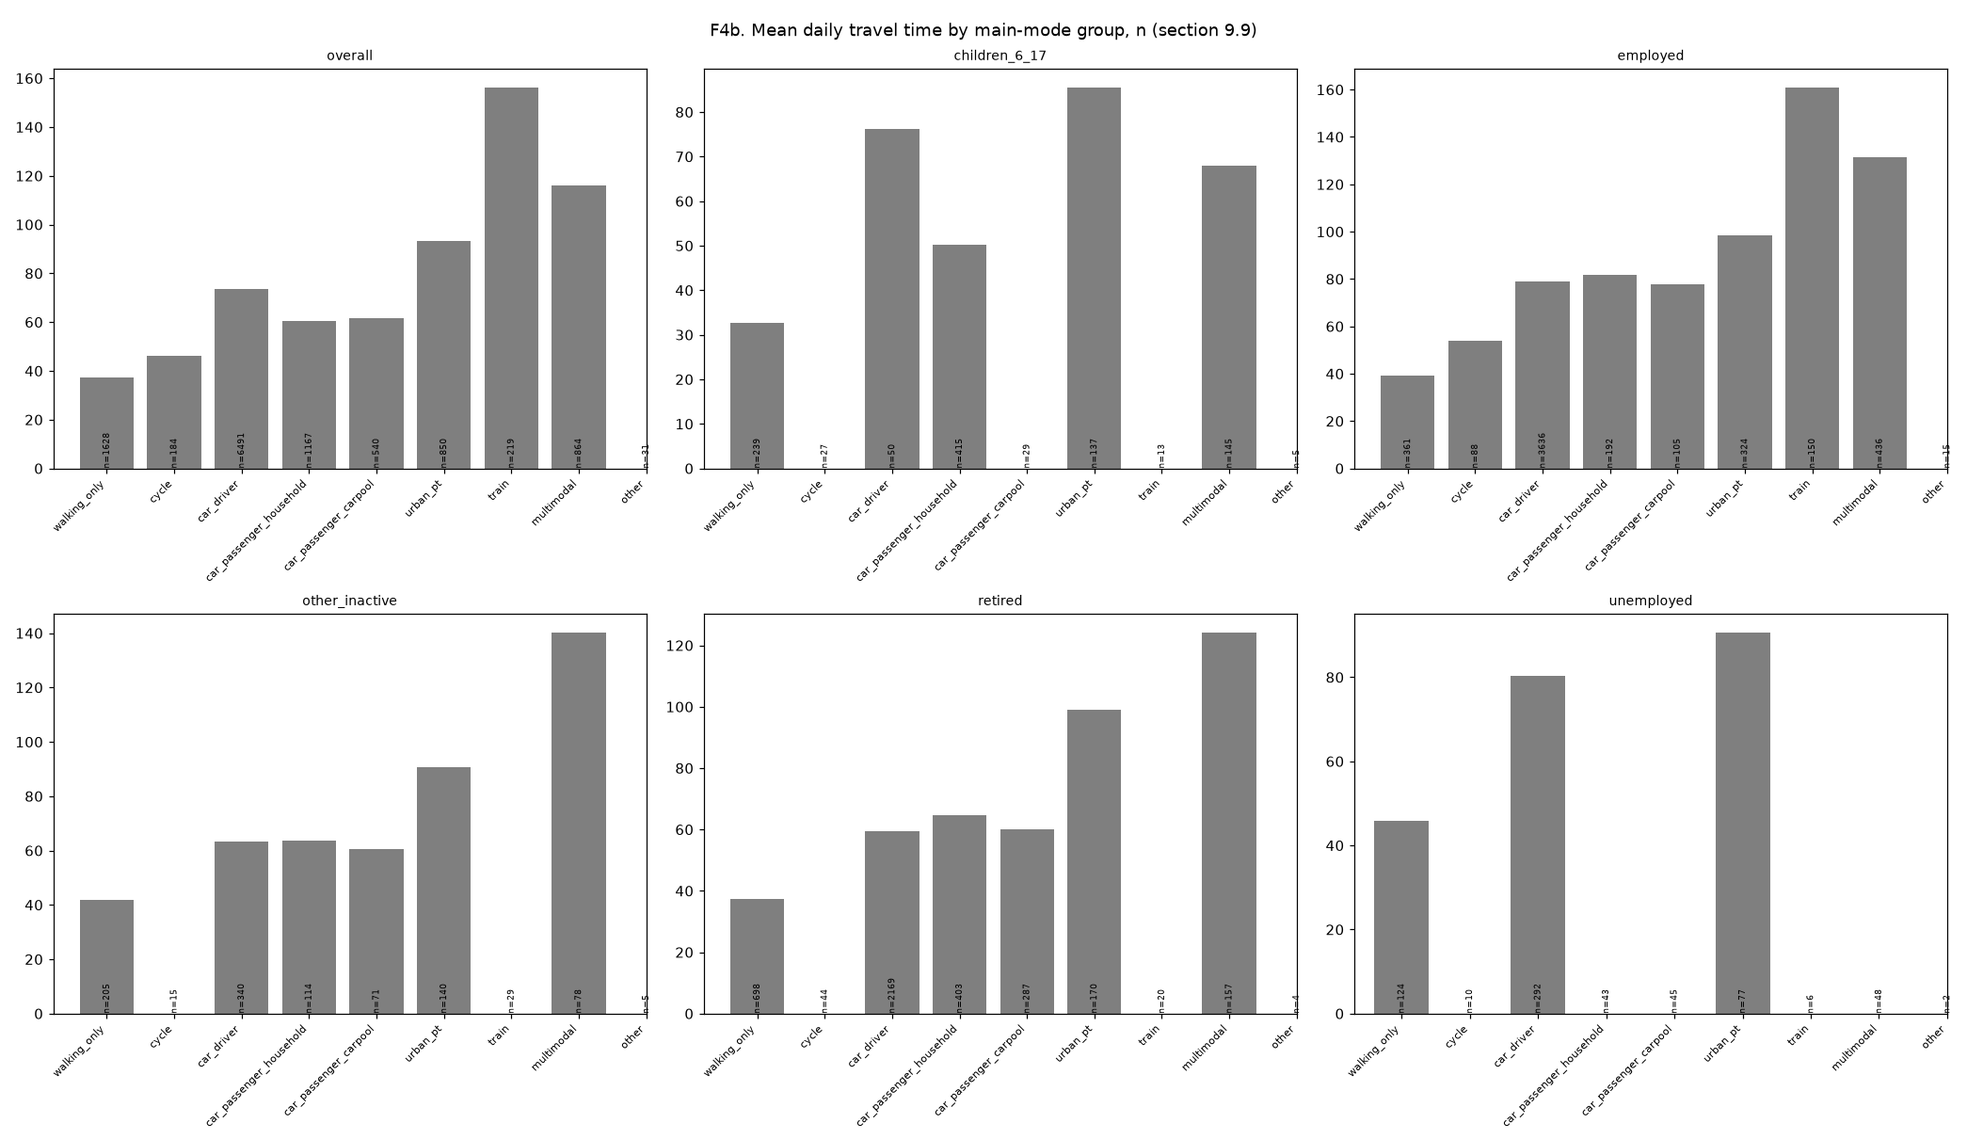
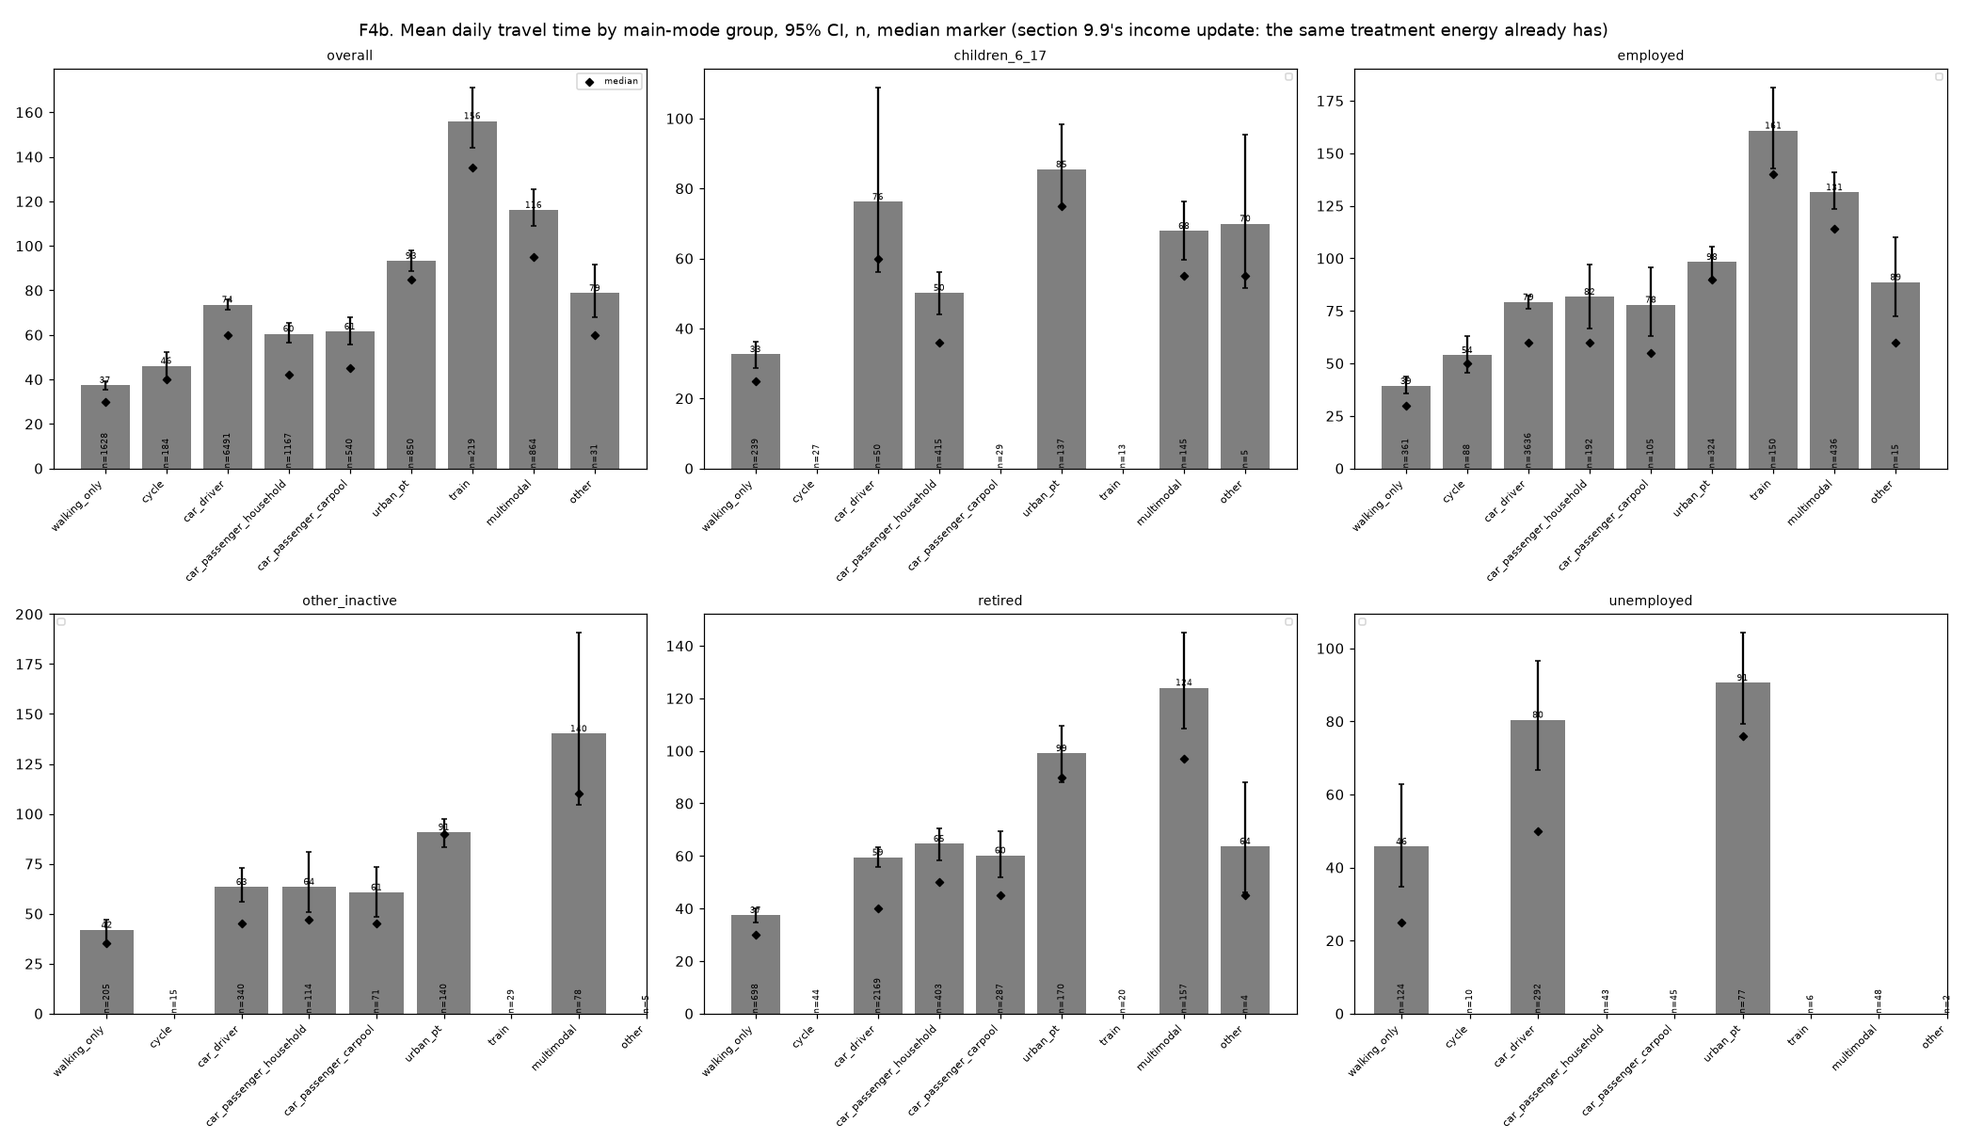
Part B: regenerate the EMP 2019 real-data report (income update)
Re-run docs/data/step11_budget.md and its figures with the section
9.9 income/time-parity code (income quintiles, per-person budget,
trips/day and minutes/trip tables, F01b/F01c/F02a/F02b/F05b/F10).

diff --git a/docs/data/step11_budget.md b/docs/data/step11_budget.md
@@ -28,30 +28,30 @@ INSEE's own 4-level grid names and order: dense (1, densely populated communes),
 
 ## Time budget: constancy across density classes (point 3)
 
-The reference constant (section 9.9, 27 October 2026 decision): is mean daily travel time the same across density classes of residence, within each population category? Day with trips, needs scope. Cells of fewer than 50 persons blank.
+The reference constant (section 9.9, 27 October 2026 decision): is mean daily travel time the same across density classes of residence, within each population category? Day with trips, needs scope. Cells of fewer than 50 persons blank. The 95% CI column (bootstrap over households) gives time the same treatment energy already has (section 9.9's income update).
 
-| Category | Density | n | mean time (min) | median time (min) |
-|---|---|---|---|---|
-| children_6_17 | dense | 405 | 57.7 | 41.0 |
-| children_6_17 | intermediate | 304 | 48.2 | 35.0 |
-| children_6_17 | sparse | 319 | 53.6 | 35.0 |
-| children_6_17 | very_sparse | 32 | - | - |
-| employed | dense | 2008 | 88.6 | 70.0 |
-| employed | intermediate | 1400 | 77.6 | 60.0 |
-| employed | sparse | 1694 | 83.5 | 65.0 |
-| employed | very_sparse | 205 | 89.1 | 70.0 |
-| unemployed | dense | 292 | 91.5 | 70.0 |
-| unemployed | intermediate | 184 | 72.4 | 46.0 |
-| unemployed | sparse | 152 | 73.4 | 40.0 |
-| unemployed | very_sparse | 19 | - | - |
-| retired | dense | 1242 | 67.7 | 50.0 |
-| retired | intermediate | 1202 | 55.7 | 40.0 |
-| retired | sparse | 1342 | 57.4 | 40.0 |
-| retired | very_sparse | 166 | 59.7 | 40.0 |
-| other_inactive | dense | 503 | 81.0 | 66.0 |
-| other_inactive | intermediate | 269 | 75.5 | 55.0 |
-| other_inactive | sparse | 203 | 69.2 | 55.0 |
-| other_inactive | very_sparse | 22 | - | - |
+| Category | Density | n | mean time (min) | 95% CI | median time (min) |
+|---|---|---|---|---|---|
+| children_6_17 | dense | 405 | 57.7 | [53.0, 63.5] | 41.0 |
+| children_6_17 | intermediate | 304 | 48.2 | [42.9, 56.9] | 35.0 |
+| children_6_17 | sparse | 319 | 53.6 | [47.6, 60.6] | 35.0 |
+| children_6_17 | very_sparse | 32 | - | - | - |
+| employed | dense | 2008 | 88.6 | [84.6, 94.1] | 70.0 |
+| employed | intermediate | 1400 | 77.6 | [73.4, 82.5] | 60.0 |
+| employed | sparse | 1694 | 83.5 | [78.7, 88.0] | 65.0 |
+| employed | very_sparse | 205 | 89.1 | [77.6, 100.5] | 70.0 |
+| unemployed | dense | 292 | 91.5 | [78.9, 106.4] | 70.0 |
+| unemployed | intermediate | 184 | 72.4 | [59.5, 89.0] | 46.0 |
+| unemployed | sparse | 152 | 73.4 | [53.9, 106.7] | 40.0 |
+| unemployed | very_sparse | 19 | - | - | - |
+| retired | dense | 1242 | 67.7 | [63.7, 71.8] | 50.0 |
+| retired | intermediate | 1202 | 55.7 | [51.9, 59.8] | 40.0 |
+| retired | sparse | 1342 | 57.4 | [52.9, 63.6] | 40.0 |
+| retired | very_sparse | 166 | 59.7 | [51.2, 68.3] | 40.0 |
+| other_inactive | dense | 503 | 81.0 | [74.1, 89.1] | 66.0 |
+| other_inactive | intermediate | 269 | 75.5 | [57.5, 101.5] | 55.0 |
+| other_inactive | sparse | 203 | 69.2 | [56.0, 83.7] | 55.0 |
+| other_inactive | very_sparse | 22 | - | - | - |
 
 ### Constancy summary
 
@@ -62,6 +62,302 @@ The reference constant (section 9.9, 27 October 2026 decision): is mean daily tr
 | unemployed | - | 1.26 | 0.11 |
 | retired | 1.13 | 1.22 | 0.08 |
 | other_inactive | - | 1.17 | 0.06 |
+
+## Time budget: constancy across income quintiles (section 9.9's income update)
+
+Household income per consumption unit (modified OECD scale), in quintiles computed within this survey with individual weights (`docs/data/entd2008.md`'s "Income variables"): is mean daily travel time the same across income quintiles, within each population category, as income is treated as density is? Day with trips, needs scope. `'unknown'` (missing/refused income) is its own class, excluded from the constancy summary (not an ordered quantile).
+
+| Category | Income quintile | n | mean time (min) | 95% CI | median time (min) |
+|---|---|---|---|---|---|
+| children_6_17 | q1 | 180 | 50.1 | [43.2, 57.8] | 40.0 |
+| children_6_17 | q2 | 259 | 58.0 | [50.2, 68.7] | 40.0 |
+| children_6_17 | q3 | 204 | 49.7 | [45.3, 56.3] | 40.0 |
+| children_6_17 | q4 | 219 | 56.2 | [47.2, 68.4] | 37.0 |
+| children_6_17 | q5 | 198 | 52.1 | [46.0, 60.0] | 40.0 |
+| children_6_17 | unknown | 0 | - | - | - |
+| employed | q1 | 211 | 77.3 | [66.3, 92.7] | 50.0 |
+| employed | q2 | 683 | 74.5 | [67.8, 79.5] | 60.0 |
+| employed | q3 | 1008 | 87.3 | [79.8, 96.4] | 65.0 |
+| employed | q4 | 1488 | 82.2 | [78.2, 86.2] | 65.0 |
+| employed | q5 | 1917 | 89.1 | [85.3, 93.0] | 70.0 |
+| employed | unknown | 0 | - | - | - |
+| unemployed | q1 | 259 | 67.9 | [58.7, 78.1] | 50.0 |
+| unemployed | q2 | 177 | 79.5 | [66.3, 95.4] | 65.0 |
+| unemployed | q3 | 88 | 110.4 | [70.9, 163.9] | 60.0 |
+| unemployed | q4 | 72 | 81.4 | [64.8, 101.2] | 75.0 |
+| unemployed | q5 | 51 | 84.0 | [54.7, 108.5] | 60.0 |
+| unemployed | unknown | 0 | - | - | - |
+| retired | q1 | 183 | 50.2 | [43.8, 58.1] | 35.0 |
+| retired | q2 | 705 | 54.7 | [49.9, 60.8] | 40.0 |
+| retired | q3 | 802 | 58.1 | [53.4, 63.6] | 40.0 |
+| retired | q4 | 1080 | 59.0 | [53.9, 66.5] | 40.0 |
+| retired | q5 | 1182 | 67.7 | [62.8, 72.2] | 45.0 |
+| retired | unknown | 0 | - | - | - |
+| other_inactive | q1 | 295 | 70.3 | [62.0, 79.6] | 60.0 |
+| other_inactive | q2 | 313 | 81.9 | [65.3, 109.8] | 60.0 |
+| other_inactive | q3 | 157 | 70.6 | [58.1, 83.2] | 60.0 |
+| other_inactive | q4 | 127 | 87.5 | [72.1, 104.1] | 62.0 |
+| other_inactive | q5 | 105 | 73.6 | [60.1, 88.5] | 65.0 |
+| other_inactive | unknown | 0 | - | - | - |
+
+### Constancy summary
+
+| Category | q5/q1 | max/min | CV across classes |
+|---|---|---|---|
+| children_6_17 | 1.04 | 1.17 | 0.06 |
+| employed | 1.15 | 1.20 | 0.07 |
+| unemployed | 1.24 | 1.63 | 0.17 |
+| retired | 1.35 | 1.35 | 0.10 |
+| other_inactive | 1.05 | 1.25 | 0.09 |
+
+## Trips per day and minutes per trip, by category, density and income quintile (section 9.9 point 2: daily time = trips/day x minutes/trip)
+
+### Trips per day
+
+#### By population category x density class
+
+| Category | Density | n | mean trips/day | 95% CI | median trips/day |
+|---|---|---|---|---|---|
+| children_6_17 | dense | 405 | 2.92 | [2.78, 3.12] | 2.00 |
+| children_6_17 | intermediate | 304 | 3.06 | [2.83, 3.31] | 2.00 |
+| children_6_17 | sparse | 319 | 2.87 | [2.70, 3.08] | 2.00 |
+| children_6_17 | very_sparse | 32 | - | - | - |
+| employed | dense | 2008 | 3.47 | [3.38, 3.56] | 3.00 |
+| employed | intermediate | 1400 | 3.49 | [3.39, 3.61] | 3.00 |
+| employed | sparse | 1694 | 3.75 | [3.61, 3.88] | 3.00 |
+| employed | very_sparse | 205 | 3.88 | [3.46, 4.27] | 4.00 |
+| unemployed | dense | 292 | 3.59 | [3.37, 3.84] | 3.00 |
+| unemployed | intermediate | 184 | 3.58 | [3.13, 4.02] | 2.00 |
+| unemployed | sparse | 152 | 3.36 | [2.87, 3.80] | 2.00 |
+| unemployed | very_sparse | 19 | - | - | - |
+| retired | dense | 1242 | 3.04 | [2.95, 3.14] | 2.00 |
+| retired | intermediate | 1202 | 3.03 | [2.91, 3.16] | 2.00 |
+| retired | sparse | 1342 | 2.95 | [2.85, 3.06] | 2.00 |
+| retired | very_sparse | 166 | 3.05 | [2.78, 3.33] | 2.00 |
+| other_inactive | dense | 503 | 3.13 | [2.94, 3.33] | 2.00 |
+| other_inactive | intermediate | 269 | 3.66 | [3.31, 4.11] | 3.00 |
+| other_inactive | sparse | 203 | 3.15 | [2.82, 3.46] | 2.00 |
+| other_inactive | very_sparse | 22 | - | - | - |
+
+#### By population category x income quintile
+
+| Category | Income quintile | n | mean trips/day | 95% CI | median trips/day |
+|---|---|---|---|---|---|
+| children_6_17 | q1 | 180 | 2.96 | [2.73, 3.20] | 2.00 |
+| children_6_17 | q2 | 259 | 3.10 | [2.84, 3.45] | 2.00 |
+| children_6_17 | q3 | 204 | 2.75 | [2.54, 3.00] | 2.00 |
+| children_6_17 | q4 | 219 | 2.86 | [2.70, 3.04] | 2.00 |
+| children_6_17 | q5 | 198 | 3.02 | [2.81, 3.22] | 2.00 |
+| children_6_17 | unknown | 0 | - | - | - |
+| employed | q1 | 211 | 3.55 | [3.27, 3.94] | 3.00 |
+| employed | q2 | 683 | 3.65 | [3.44, 3.85] | 3.00 |
+| employed | q3 | 1008 | 3.69 | [3.55, 3.84] | 3.00 |
+| employed | q4 | 1488 | 3.58 | [3.47, 3.70] | 3.00 |
+| employed | q5 | 1917 | 3.48 | [3.37, 3.58] | 3.00 |
+| employed | unknown | 0 | - | - | - |
+| unemployed | q1 | 259 | 3.50 | [3.15, 3.92] | 2.00 |
+| unemployed | q2 | 177 | 3.46 | [3.05, 3.86] | 3.00 |
+| unemployed | q3 | 88 | 3.53 | [3.05, 4.16] | 3.00 |
+| unemployed | q4 | 72 | 3.97 | [3.45, 4.55] | 4.00 |
+| unemployed | q5 | 51 | 3.25 | [2.69, 3.98] | 2.00 |
+| unemployed | unknown | 0 | - | - | - |
+| retired | q1 | 183 | 2.55 | [2.37, 2.74] | 2.00 |
+| retired | q2 | 705 | 2.77 | [2.66, 2.90] | 2.00 |
+| retired | q3 | 802 | 2.93 | [2.81, 3.04] | 2.00 |
+| retired | q4 | 1080 | 3.03 | [2.91, 3.16] | 2.00 |
+| retired | q5 | 1182 | 3.23 | [3.13, 3.34] | 3.00 |
+| retired | unknown | 0 | - | - | - |
+| other_inactive | q1 | 295 | 3.06 | [2.83, 3.30] | 2.00 |
+| other_inactive | q2 | 313 | 3.30 | [3.03, 3.62] | 2.00 |
+| other_inactive | q3 | 157 | 3.36 | [2.94, 3.81] | 3.00 |
+| other_inactive | q4 | 127 | 3.28 | [2.89, 3.77] | 2.00 |
+| other_inactive | q5 | 105 | 3.38 | [3.00, 3.77] | 3.00 |
+| other_inactive | unknown | 0 | - | - | - |
+
+### Minutes per trip
+
+#### By population category x density class
+
+| Category | Density | n | mean min/trip | 95% CI | median min/trip |
+|---|---|---|---|---|---|
+| children_6_17 | dense | 405 | 21.32 | [19.13, 23.60] | 15.00 |
+| children_6_17 | intermediate | 304 | 17.48 | [15.64, 19.73] | 12.50 |
+| children_6_17 | sparse | 319 | 20.05 | [17.54, 22.63] | 15.00 |
+| children_6_17 | very_sparse | 32 | - | - | - |
+| employed | dense | 2008 | 29.32 | [27.79, 31.30] | 21.25 |
+| employed | intermediate | 1400 | 26.70 | [24.53, 29.21] | 16.71 |
+| employed | sparse | 1694 | 26.34 | [24.73, 28.18] | 18.75 |
+| employed | very_sparse | 205 | 27.22 | [22.44, 33.02] | 17.60 |
+| unemployed | dense | 292 | 32.60 | [24.46, 45.58] | 20.00 |
+| unemployed | intermediate | 184 | 22.08 | [17.81, 28.42] | 15.00 |
+| unemployed | sparse | 152 | 34.83 | [18.73, 65.75] | 15.00 |
+| unemployed | very_sparse | 19 | - | - | - |
+| retired | dense | 1242 | 24.95 | [22.70, 27.35] | 16.25 |
+| retired | intermediate | 1202 | 19.67 | [18.30, 21.42] | 14.29 |
+| retired | sparse | 1342 | 20.99 | [18.78, 23.63] | 15.00 |
+| retired | very_sparse | 166 | 20.95 | [18.01, 25.35] | 15.00 |
+| other_inactive | dense | 503 | 29.38 | [26.23, 33.30] | 22.50 |
+| other_inactive | intermediate | 269 | 23.17 | [18.47, 30.90] | 15.00 |
+| other_inactive | sparse | 203 | 23.51 | [19.92, 26.91] | 17.50 |
+| other_inactive | very_sparse | 22 | - | - | - |
+
+#### By population category x income quintile
+
+| Category | Income quintile | n | mean min/trip | 95% CI | median min/trip |
+|---|---|---|---|---|---|
+| children_6_17 | q1 | 180 | 20.07 | [16.58, 24.48] | 12.50 |
+| children_6_17 | q2 | 259 | 19.89 | [17.42, 22.50] | 15.00 |
+| children_6_17 | q3 | 204 | 19.65 | [17.66, 22.39] | 15.00 |
+| children_6_17 | q4 | 219 | 20.58 | [17.69, 24.57] | 15.00 |
+| children_6_17 | q5 | 198 | 18.77 | [15.97, 22.19] | 15.00 |
+| children_6_17 | unknown | 0 | - | - | - |
+| employed | q1 | 211 | 24.61 | [19.94, 30.46] | 15.00 |
+| employed | q2 | 683 | 23.61 | [21.37, 25.29] | 17.50 |
+| employed | q3 | 1008 | 28.11 | [25.44, 31.57] | 18.00 |
+| employed | q4 | 1488 | 26.53 | [25.28, 28.15] | 20.00 |
+| employed | q5 | 1917 | 30.41 | [28.80, 32.55] | 20.00 |
+| employed | unknown | 0 | - | - | - |
+| unemployed | q1 | 259 | 21.78 | [18.65, 25.49] | 15.00 |
+| unemployed | q2 | 177 | 26.67 | [21.41, 33.39] | 16.83 |
+| unemployed | q3 | 88 | 58.82 | [22.06, 109.93] | 16.00 |
+| unemployed | q4 | 72 | 22.36 | [17.31, 27.84] | 16.67 |
+| unemployed | q5 | 51 | 30.67 | [19.99, 41.97] | 19.17 |
+| unemployed | unknown | 0 | - | - | - |
+| retired | q1 | 183 | 21.10 | [17.28, 25.25] | 15.00 |
+| retired | q2 | 705 | 20.99 | [19.01, 23.35] | 15.00 |
+| retired | q3 | 802 | 21.66 | [19.42, 24.60] | 15.00 |
+| retired | q4 | 1080 | 20.51 | [18.55, 22.83] | 15.00 |
+| retired | q5 | 1182 | 23.95 | [21.60, 27.10] | 15.00 |
+| retired | unknown | 0 | - | - | - |
+| other_inactive | q1 | 295 | 26.50 | [22.61, 30.81] | 20.00 |
+| other_inactive | q2 | 313 | 28.07 | [22.33, 35.64] | 20.00 |
+| other_inactive | q3 | 157 | 24.26 | [20.02, 30.08] | 16.00 |
+| other_inactive | q4 | 127 | 28.03 | [23.60, 33.06] | 23.33 |
+| other_inactive | q5 | 105 | 23.85 | [18.52, 28.50] | 17.50 |
+| other_inactive | unknown | 0 | - | - | - |
+
+#### By density class and by income quintile (marginals)
+
+| Group | n | weighted n | mean trips/day | 95% CI | median trips/day |
+|---|---|---|---|---|---|
+| dense | 4458 | 124,863,046 | 3.27 | [3.21, 3.33] | 3.00 |
+| sparse | 3712 | 90,497,649 | 3.37 | [3.28, 3.44] | 3.00 |
+| intermediate | 3360 | 87,493,794 | 3.32 | [3.25, 3.40] | 3.00 |
+| very_sparse | 444 | 9,671,561 | 3.47 | [3.18, 3.72] | 3.00 |
+
+| Group | n | weighted n | mean trips/day | 95% CI | median trips/day |
+|---|---|---|---|---|---|
+| q5 | 3454 | 86,830,242 | 3.36 | [3.29, 3.44] | 3.00 |
+| q4 | 2990 | 76,184,515 | 3.34 | [3.26, 3.43] | 3.00 |
+| q3 | 2259 | 61,051,836 | 3.33 | [3.23, 3.42] | 2.00 |
+| q2 | 2139 | 57,526,924 | 3.30 | [3.19, 3.40] | 2.00 |
+| q1 | 1132 | 30,932,533 | 3.17 | [3.05, 3.31] | 2.00 |
+
+| Group | n | weighted n | mean min/trip | 95% CI | median min/trip |
+|---|---|---|---|---|---|
+| employed | 5307 | 150,389,289 | 27.67 | [26.75, 28.69] | 19.33 |
+| retired | 3952 | 67,697,803 | 21.90 | [20.74, 23.31] | 15.00 |
+| children_6_17 | 1060 | 50,539,780 | 19.81 | [18.49, 21.14] | 15.00 |
+| other_inactive | 997 | 27,787,489 | 26.38 | [23.83, 28.71] | 20.00 |
+| unemployed | 647 | 15,840,084 | 29.92 | [22.92, 39.71] | 16.00 |
+
+| Group | n | weighted n | mean min/trip | 95% CI | median min/trip |
+|---|---|---|---|---|---|
+| dense | 4458 | 124,863,046 | 27.40 | [26.38, 28.66] | 20.00 |
+| sparse | 3712 | 90,497,649 | 24.24 | [22.88, 25.81] | 15.67 |
+| intermediate | 3360 | 87,493,794 | 22.89 | [21.74, 24.74] | 15.00 |
+| very_sparse | 444 | 9,671,561 | 24.77 | [21.05, 28.21] | 17.50 |
+
+| Group | n | weighted n | mean min/trip | 95% CI | median min/trip |
+|---|---|---|---|---|---|
+| q5 | 3454 | 86,830,242 | 27.40 | [26.12, 29.09] | 18.00 |
+| q4 | 2990 | 76,184,515 | 24.18 | [23.17, 25.25] | 16.67 |
+| q3 | 2259 | 61,051,836 | 26.18 | [23.80, 28.76] | 16.00 |
+| q2 | 2139 | 57,526,924 | 23.16 | [21.85, 24.75] | 15.71 |
+| q1 | 1132 | 30,932,533 | 22.82 | [21.05, 25.15] | 15.00 |
+
+## Per-person budget, days without trips included (section 9.9 point 2b)
+
+P(out on the weekday) x T(weekday|out), weekday only (comparable with ENTD 2008's own, unverified-weekend-eligibility budget); EMP 2019 additionally reports the all-week budget, Sigma_d w_d . P(out on day type d) . T(d|out), w_d = 5/7, 1/7, 1/7 (P from `IMMODEP_A`-`G`, T from the described days of each day type; point estimate only, no bootstrap CI).
+
+### By population category
+
+#### Weekday
+
+| Category | n | P(out) | T\|out (min) | budget (min) | 95% CI |
+|---|---|---|---|---|---|
+| children_6_17 | 860 | 0.912 | 53.4 | 48.7 | [45.7, 51.8] |
+| employed | 4199 | 0.946 | 87.6 | 82.9 | [79.9, 85.2] |
+| unemployed | 514 | 0.818 | 80.5 | 65.8 | [57.8, 73.7] |
+| retired | 3077 | 0.727 | 60.7 | 44.1 | [42.0, 45.9] |
+| other_inactive | 788 | 0.815 | 74.9 | 61.0 | [56.5, 66.0] |
+| overall | 9448 | 0.863 | 74.7 | 64.5 | [63.2, 66.3] |
+
+#### All-week
+
+| Category | n | P(out) | T\|out (min) | budget (min) | 95% CI |
+|---|---|---|---|---|---|
+| children_6_17 | 90 | 0.912 | 53.4 | 46.8 | - |
+| employed | 483 | 0.946 | 87.6 | 77.5 | - |
+| unemployed | 53 | 0.818 | 80.5 | 64.4 | - |
+| retired | 374 | 0.727 | 60.7 | 43.3 | - |
+| other_inactive | 93 | 0.815 | 74.9 | 60.1 | - |
+| overall | 1093 | 0.863 | 74.7 | 61.5 | - |
+
+### By population category x density class (weekday budget)
+
+| Category | Density | n | P(out) | T\|out (min) | budget (min) | 95% CI |
+|---|---|---|---|---|---|---|
+| children_6_17 | dense | 328 | 0.926 | 57.4 | 53.1 | [48.5, 59.3] |
+| children_6_17 | intermediate | 251 | 0.901 | 47.4 | 42.7 | [38.3, 47.4] |
+| children_6_17 | sparse | 253 | 0.901 | 53.7 | 48.4 | [41.8, 57.3] |
+| children_6_17 | very_sparse | 0 | - | - | - | - |
+| employed | dense | 1578 | 0.957 | 89.8 | 86.0 | [81.2, 90.9] |
+| employed | intermediate | 1097 | 0.943 | 82.9 | 78.1 | [73.1, 84.3] |
+| employed | sparse | 1366 | 0.938 | 88.0 | 82.5 | [78.2, 87.7] |
+| employed | very_sparse | 158 | 0.924 | 93.5 | 86.4 | [76.3, 95.9] |
+| unemployed | dense | 236 | 0.845 | 96.1 | 81.2 | [68.8, 95.0] |
+| unemployed | intermediate | 143 | 0.801 | 74.5 | 59.7 | [44.3, 77.0] |
+| unemployed | sparse | 121 | 0.800 | 57.6 | 46.1 | [37.5, 54.9] |
+| unemployed | very_sparse | 0 | - | - | - | - |
+| retired | dense | 980 | 0.768 | 68.4 | 52.5 | [48.8, 56.5] |
+| retired | intermediate | 913 | 0.720 | 57.2 | 41.2 | [38.0, 44.7] |
+| retired | sparse | 1051 | 0.703 | 55.9 | 39.3 | [37.1, 42.1] |
+| retired | very_sparse | 133 | 0.654 | 60.0 | 39.2 | [33.3, 47.2] |
+| other_inactive | dense | 391 | 0.850 | 79.0 | 67.1 | [61.9, 73.8] |
+| other_inactive | intermediate | 221 | 0.786 | 65.5 | 51.5 | [43.1, 59.7] |
+| other_inactive | sparse | 157 | 0.779 | 79.6 | 61.9 | [50.9, 76.1] |
+| other_inactive | very_sparse | 0 | - | - | - | - |
+
+### By population category x income quintile (weekday budget)
+
+| Category | Income quintile | n | P(out) | T\|out (min) | budget (min) | 95% CI |
+|---|---|---|---|---|---|---|
+| children_6_17 | q1 | 141 | 0.875 | 52.3 | 45.7 | [39.0, 53.6] |
+| children_6_17 | q2 | 206 | 0.907 | 53.5 | 48.5 | [43.1, 54.3] |
+| children_6_17 | q3 | 163 | 0.925 | 53.4 | 49.4 | [44.5, 56.2] |
+| children_6_17 | q4 | 180 | 0.914 | 58.4 | 53.3 | [40.5, 65.5] |
+| children_6_17 | q5 | 170 | 0.942 | 49.2 | 46.3 | [40.3, 52.4] |
+| employed | q1 | 168 | 0.914 | 76.3 | 69.8 | [58.2, 84.1] |
+| employed | q2 | 534 | 0.931 | 77.2 | 71.9 | [66.7, 78.1] |
+| employed | q3 | 805 | 0.944 | 92.3 | 87.2 | [78.0, 97.8] |
+| employed | q4 | 1176 | 0.950 | 84.5 | 80.3 | [76.3, 84.8] |
+| employed | q5 | 1516 | 0.957 | 93.1 | 89.0 | [85.1, 93.3] |
+| unemployed | q1 | 200 | 0.782 | 73.2 | 57.3 | [49.5, 66.2] |
+| unemployed | q2 | 138 | 0.810 | 79.4 | 64.3 | [50.5, 85.1] |
+| unemployed | q3 | 71 | 0.833 | 91.8 | 76.5 | [50.9, 114.0] |
+| unemployed | q4 | 63 | 0.891 | 83.1 | 74.1 | [57.4, 89.2] |
+| unemployed | q5 | 0 | - | - | - | - |
+| retired | q1 | 126 | 0.611 | 51.2 | 31.3 | [25.9, 38.9] |
+| retired | q2 | 562 | 0.651 | 55.7 | 36.3 | [32.4, 40.7] |
+| retired | q3 | 649 | 0.699 | 58.5 | 40.9 | [37.2, 44.4] |
+| retired | q4 | 818 | 0.751 | 58.6 | 44.0 | [40.6, 47.5] |
+| retired | q5 | 922 | 0.799 | 68.4 | 54.6 | [49.5, 59.3] |
+| other_inactive | q1 | 232 | 0.796 | 64.8 | 51.6 | [45.3, 59.5] |
+| other_inactive | q2 | 257 | 0.808 | 72.4 | 58.5 | [52.0, 66.2] |
+| other_inactive | q3 | 130 | 0.843 | 76.1 | 64.1 | [54.9, 75.8] |
+| other_inactive | q4 | 100 | 0.812 | 88.8 | 72.1 | [55.2, 88.0] |
+| other_inactive | q5 | 69 | 0.833 | 81.0 | 67.5 | [52.4, 84.5] |
 
 ## Mean daily energy and time by main-mode group (point 3)
 
@@ -353,9 +649,13 @@ Identified as: a Kish respondent with zero rows in K_DEPLOC for their described 
 
 ![f01_trips_per_day](step11_budget/f01_trips_per_day.png)
 
-![f02_time_density_by_category](step11_budget/f02_time_density_by_category.png)
+![f01b_trips_per_day_by_category](step11_budget/f01b_trips_per_day_by_category.png)
 
-![f02b_time_heatmap_category_density](step11_budget/f02b_time_heatmap_category_density.png)
+![f01c_minutes_per_trip_by_category](step11_budget/f01c_minutes_per_trip_by_category.png)
+
+![f02a_time_density_overall](step11_budget/f02a_time_density_overall.png)
+
+![f02b_time_density_by_category](step11_budget/f02b_time_density_by_category.png)
 
 ![f03a_energy_density_overall](step11_budget/f03a_energy_density_overall.png)
 
@@ -371,11 +671,15 @@ Identified as: a Kish respondent with zero rows in K_DEPLOC for their described 
 
 ![f05_heatmaps](step11_budget/f05_heatmaps.png)
 
+![f05b_time_heatmaps](step11_budget/f05b_time_heatmaps.png)
+
 ![f06_v0_p0](step11_budget/f06_v0_p0.png)
 
 ![f07_passengers](step11_budget/f07_passengers.png)
 
 ![f08_robustness](step11_budget/f08_robustness.png)
+
+![f10_constancy](step11_budget/f10_constancy.png)
 
 ![f09_motive_energy](step11_budget/f09_motive_energy.png)
 
